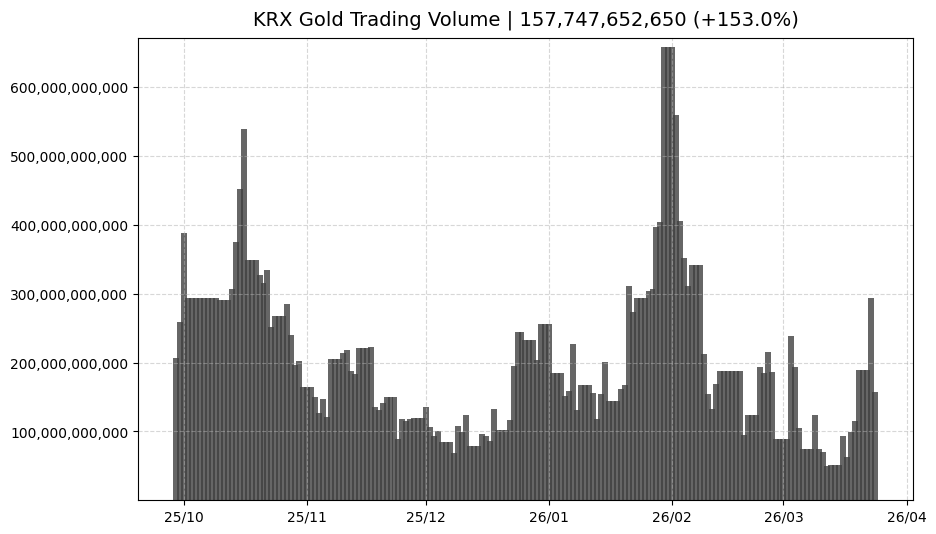
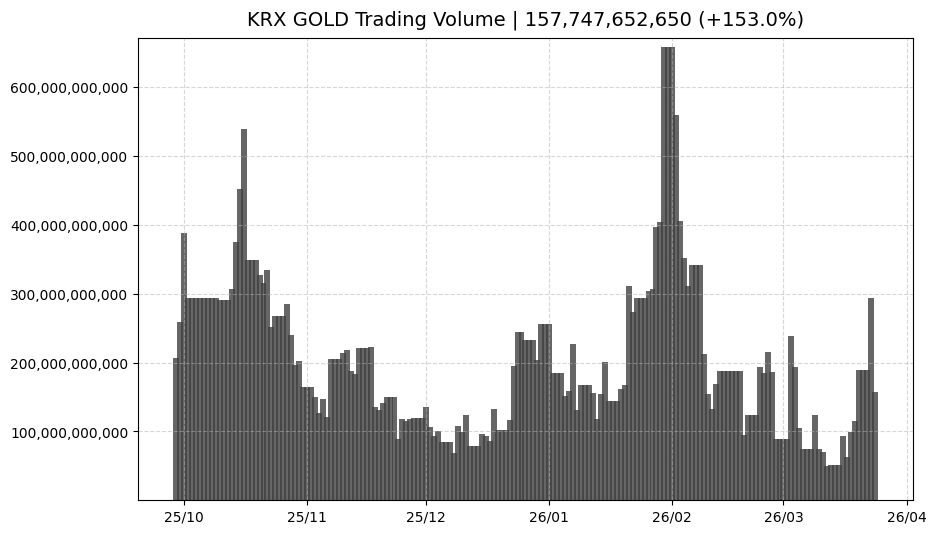
Fix: KRX GOLD name, Gold 2nd position, ETS KAU25 before Volume

Changed region(s): [[0.2479, 0.0, 0.8675, 0.0599]]

diff --git a/index.html b/index.html
@@ -441,7 +441,7 @@
 <body>
     <header>
         <h1>📊 Market Data Dashboard</h1>
-        <div class="last-updated">Updated: 2026-03-25 10:37:42 KST</div>
+        <div class="last-updated">Updated: 2026-03-25 12:46:15 KST</div>
         <div class="nav-group">
             <a href="wrap.html" target="_blank" class="nav-button" style="background-color:#1e40af">📈 WRAP</a>
             <a href="market_alert.html" target="_blank" class="nav-button" style="background-color:#c2410c">🚦 투자유의종목</a>
@@ -696,6 +696,12 @@
                 </div>
                     
                 <div class="chart-card">
+                    <a href="charts/KRX_GOLD_Trading_Volume.png" target="_blank">
+                        <img src="charts/KRX_GOLD_Trading_Volume.png" alt="KRX GOLD Trading Volume" loading="lazy">
+                    </a>
+                </div>
+                    
+                <div class="chart-card">
                     <a href="charts/Silver.png" target="_blank">
                         <img src="charts/Silver.png" alt="Silver" loading="lazy">
                     </a>
@@ -752,12 +758,6 @@
                 <div class="chart-card">
                     <a href="charts/KRX_ETS_Trading_Volume.png" target="_blank">
                         <img src="charts/KRX_ETS_Trading_Volume.png" alt="KRX ETS Trading Volume" loading="lazy">
-                    </a>
-                </div>
-                    
-                <div class="chart-card">
-                    <a href="charts/KRX_GOLD_Trading_Volume.png" target="_blank">
-                        <img src="charts/KRX_GOLD_Trading_Volume.png" alt="KRX GOLD Trading Volume" loading="lazy">
                     </a>
                 </div>
                     

diff --git a/wrap.html b/wrap.html
@@ -135,7 +135,7 @@
     <div id="mainContent" class="pw-hidden">
     <header>
         <h1>📈 WRAP</h1>
-        <div class="last-updated">Updated: 2026-03-25 10:37:42 KST</div>
+        <div class="last-updated">Updated: 2026-03-25 12:46:15 KST</div>
         <div class="nav-group">
             <a href="index.html" class="nav-button">← Dashboard</a>
         </div>

diff --git a/execution/fetch_krx_data.py b/execution/fetch_krx_data.py
@@ -78,7 +78,7 @@ if __name__ == '__main__':
 
     print("KRX 데이터 수집 중...")
     all_new = []
-    all_new += collect_product(df, 'KRX Gold Trading Volume', 'COMMODITY', fetch_gold_volume)
+    all_new += collect_product(df, 'KRX GOLD Trading Volume', 'COMMODITY', fetch_gold_volume)
     all_new += collect_product(df, 'KRX ETS (KAU25)', 'COMMODITY', fetch_ets_kau25_price)
     all_new += collect_product(df, 'KRX ETS Trading Volume', 'COMMODITY', fetch_ets_volume)
 

diff --git a/execution/create_dashboard.py b/execution/create_dashboard.py
@@ -1169,7 +1169,7 @@ def create_dashboard():
             elif category == 'COMMODITIES':
                 custom_order = [
                     'Gold',
-                    'KRX Gold Trading Volume',
+                    'KRX GOLD Trading Volume',
                     'Silver',
                     'Copper',
                     'WTI Crude Oil',
